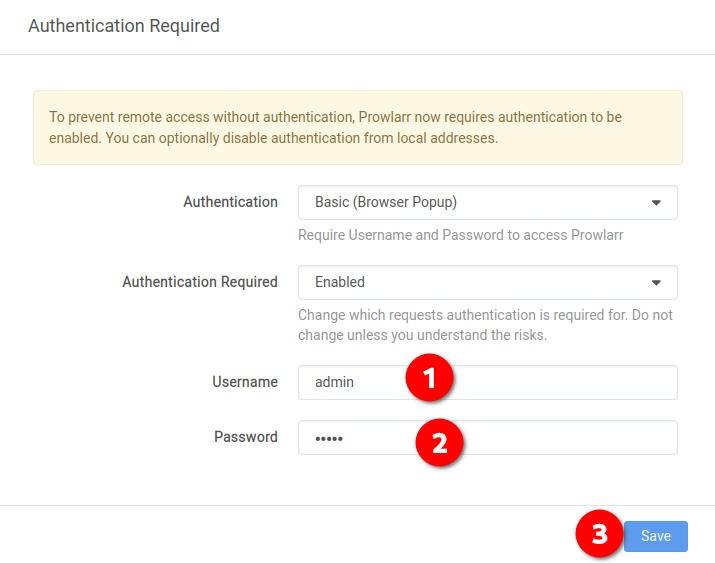
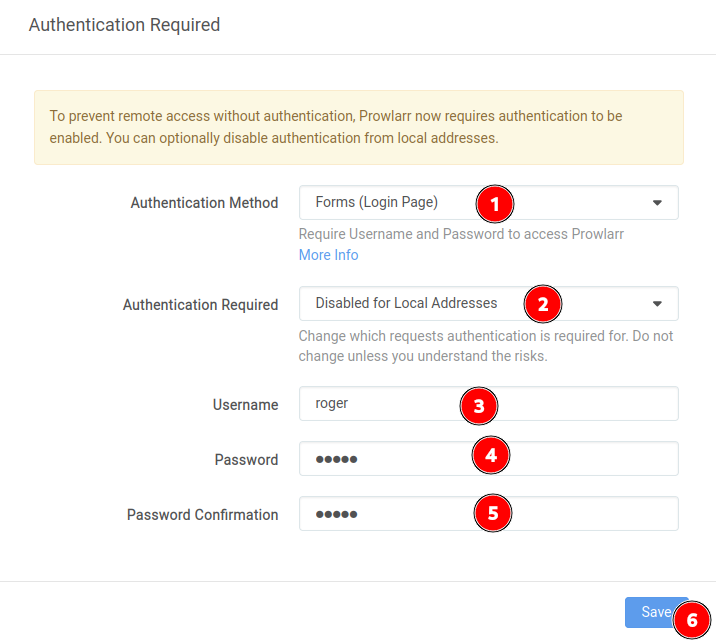
Upgraded Prowlarr setup guide

diff --git a/content/config/prowlarr.md b/content/config/prowlarr.md
@@ -12,126 +12,140 @@ From their [Github repo](https://github.com/Prowlarr/Prowlarr/):
 
 > Prowlarr is an indexer manager/proxy built on the popular *arr .net/reactjs base stack to integrate with your various PVR apps. Prowlarr supports management of both Torrent Trackers and Usenet Indexers. It integrates seamlessly with Lidarr, Mylar3, Radarr, Readarr, and Sonarr offering complete management of your indexers with no per app Indexer setup required (we do it all).
 
-So basically, we are going to use Prowlarr to **search for torrents**, so we can add them to [qBittorrent](/config/qbittorrent) later on.
+So basically, we're going to use Prowlarr to **search for torrents**, and then it will pass those on to [qBittorrent](/config/qbittorrent) to download. Think of it as your personal search engine! 🔍
 
 ## Initial configuration
 
-In your browser, go to [http://{your-ip-address}:9696/]() and you'll see the "Authentication required" screen. For now, set it to "Basic" and enter a username and password for Prowlarr
+In your browser, go to [http://{your-ip-address}:9696/]() and you'll see the "Authentication required" screen. Let's set up some basic security:
+- Select "Forms (Login Page)" as the "Authentication Method"
+- In "Authentication Required" select "Disabled for Local Addresses" (so you can browse freely on your home network)
 
 [![prowlarr-1](/pics/prowlarr-1.png)](/pics/prowlarr-1.png)
 
-### Indexers
+### Understanding Indexers
 
-On the homepage, click on "Add Nex Indexer"
+Before we dive in, let's talk about the two types of indexers you can use with Prowlarr:
+
+#### Usenet Indexers 📰
+Most good Usenet indexers are paid services, but they're usually pretty affordable and worth checking out! A couple of popular ones are:
+- [DrunkenSlug](https://drunkenslug.com) (invite only!)
+- [NZBGeek](https://nzbgeek.info)
+
+Remember, if you want to use Usenet indexers, you'll also need a Usenet provider configured in [SABnzbd](/config/sabnzbd)!
+
+#### Torrent Indexers 🧲
+For this tutorial, we'll focus on free torrent indexers since they're easier to get started with. Just remember to always use a VPN when torrenting!
+
+### Adding Indexers
+
+On the homepage, click on "Add Next Indexer" - time to teach Prowlarr where to look for content!
 
 [![prowlarr-2](/pics/prowlarr-2.png)](/pics/prowlarr-2.png)
 
-Now, select your indexers. For the purposes of this tutorial I'll add 2: YTS (for movies) and eztv (for tv shows).
+For this tutorial, I'll add two popular indexers: YTS (great for movies) and eztv (perfect for TV shows). But you can add whatever indexers you like! 
 
-Look for your indexer and click on it
+Find your indexer and click on it:
 
 [![prowlarr-3](/pics/prowlarr-3.png)](/pics/prowlarr-3.png)
 
-You'll get a new modal now, called "Add Indexer - Cardigann (your indexer)". On this screen, just choose a URL from the "Base Url" list.
+You'll see a new modal called "Add Indexer - Cardigann (your indexer)". All you need to do here is pick a URL from the "Base Url" list. Easy peasy! 
 
 [![prowlarr-4](/pics/prowlarr-4.png)](/pics/prowlarr-4.png)
 
-At the bottom, you can click on "Test" and if everything is OK you should see a ✅ 
+Hit that "Test" button at the bottom - if everything's working, you'll see a happy green checkmark! ✅ 
 [![sonarr-10](/pics/sonarr-10.png)](/pics/sonarr-10.png)
 [![sonarr-11](/pics/sonarr-11.png)](/pics/sonarr-11.png)
 
-If everything is fine, click on "Save", and you'll be back at the "Add Indexer" modal.
+Looking good? Click "Save" and you'll be back at the "Add Indexer" modal.
 
-You can now add more indexers. Add as many as you like!
+#### How many indexers should I add? 🤔
 
-#### How many indexers can I have?
-As many as you want! Just repeat the steps to add new indexers in Prowlarr. The more indexers you have, the better!
+As many as you want! Just repeat those steps for each new indexer in Prowlarr. The more indexers you have, the better chance of finding what you're looking for! It's like having more libraries to check for books. 📚
 
-When you finish, close the "Add Indexer" modal and you'll see all your indexers on the main page
+When you're done adding indexers, close the modal and you'll see all your indexers on the main page:
 
 [![prowlarr-5](/pics/prowlarr-5.png)](/pics/prowlarr-5.png)
 
 ### Connecting to Radarr and Sonarr
 
-Now comes the fun part: Connecting Prowlarr to Radarr and Sonarr!
+Now comes the fun part - connecting Prowlarr to Radarr and Sonarr! This is where everything starts working together. ✨
 
-#### Radarr 
+#### Radarr Connection
 
-First, you are going to need your Radarr API Key.
-
-You can get your Radarr API Key in Radarr. Go to [http://{your-ip-address}:7878/settings/general]() to open Radarr's settings, and you'll find the API Key under the "Security" section.
+First, we need your Radarr API Key. Head over to Radarr's settings at [http://{your-ip-address}:7878/settings/general]() and look for the API Key under "Security".
 
 [![bazarr-17](/pics/bazarr-17.png)](/pics/bazarr-17.png)
 
-For now, just copy it and keep it in a safe location.
+Copy that API key and keep it handy!
 
-In "Settings", go to "Apps" and click on the ➕ button.
+In Prowlarr, go to "Settings", click "Apps" and hit the ➕ button.
 
 [![prowlarr-6](/pics/prowlarr-6.png)](/pics/prowlarr-6.png)
 
-On the "Add Application" modal, click on "Radarr"
+Click on "Radarr":
 
 [![prowlarr-7](/pics/prowlarr-7.png)](/pics/prowlarr-7.png)
 
-- In "Prowlarr Server", add `http://prowlarr:9696`
-- In "Radarr Server", add `http://radarr:7878`
-- In "ApiKey", add your Radarr API key.
+Fill in these details:
+- Prowlarr Server: `http://prowlarr:9696`
+- Radarr Server: `http://radarr:7878`
+- API Key: paste your Radarr API key here
 
 [![prowlarr-8](/pics/prowlarr-8.png)](/pics/prowlarr-8.png)
 
-At the bottom, you can click on "Test" and if everything is OK you should see a ✅ 
+Test time! Click that "Test" button - hopefully you'll see a green checkmark! ✅ 
 [![sonarr-10](/pics/sonarr-10.png)](/pics/sonarr-10.png)
 [![sonarr-11](/pics/sonarr-11.png)](/pics/sonarr-11.png)
 
-To finish, click on "Save". You should see Radarr added to the "Apps" list!
+If the test passed, click "Save". You should see Radarr in your Apps list:
 
 [![prowlarr-9](/pics/prowlarr-9.png)](/pics/prowlarr-9.png)
 
-#### Sonarr 
+#### Sonarr Connection
 
-First, you are going to need your Sonarr API Key.
-
-You can get your Sonarr API Key in Sonarr. Go to [http://{your-ip-address}:8989/settings/general]() to open Sonarr's settings, and you'll find the API Key under the "Security" section.
+Time for Sonarr! First, grab your Sonarr API Key from [http://{your-ip-address}:8989/settings/general]() - it's under "Security" just like in Radarr.
 
 [![bazarr-14](/pics/bazarr-14.png)](/pics/bazarr-14.png)
 
-For now, just copy it and keep it in a safe location.
+Copy that API key for safekeeping!
 
-In "Settings", go to "Apps" and click on the ➕ button.
+Back in Prowlarr, go to "Settings", "Apps" and click that ➕ button again.
 
 [![prowlarr-10](/pics/prowlarr-10.png)](/pics/prowlarr-10.png)
 
-On the "Add Application" modal, click on "Sonarr"
+This time click on "Sonarr":
 
 [![prowlarr-11](/pics/prowlarr-11.png)](/pics/prowlarr-11.png)
 
-- In "Prowlarr Server", add `http://prowlarr:9696`
-- In "Sonarr Server", add `http://sonarr:8989`
-- In "ApiKey", add your Sonarr API key.
+Fill in these details:
+- Prowlarr Server: `http://prowlarr:9696`
+- Sonarr Server: `http://sonarr:8989`
+- API Key: paste your Sonarr API key here
 
 [![prowlarr-12](/pics/prowlarr-12.png)](/pics/prowlarr-12.png)
 
-At the bottom, you can click on "Test" and if everything is OK you should see a ✅ 
+One more test! Click "Test" - green checkmark time! ✅ 
 [![sonarr-10](/pics/sonarr-10.png)](/pics/sonarr-10.png)
 [![sonarr-11](/pics/sonarr-11.png)](/pics/sonarr-11.png)
 
-To finish, click on "Save". You should see Radarr added to the "Apps" list!
+All good? Hit "Save". You should now see both Radarr and Sonarr in your Apps list:
 
 [![prowlarr-13](/pics/prowlarr-13.png)](/pics/prowlarr-13.png)
 
-Finally, click on "Sync App Indexers"
+Finally, click on "Sync App Indexers" - this is where the magic happens! 🎩
 
 [![prowlarr-14](/pics/prowlarr-14.png)](/pics/prowlarr-14.png)
 
-Now, if you go back to Sonarr and Radarr, and check their "Indexer" settings, you'll see your indexers added magically!
+Want to see something cool? Go check Sonarr and Radarr's "Indexer" settings - your indexers have been automatically added! No copy-pasting needed! 
 
 [![prowlarr-15](/pics/prowlarr-15.png)](/pics/prowlarr-15.png)
+
 [![prowlarr-16](/pics/prowlarr-16.png)](/pics/prowlarr-16.png)
 
-## Move forward
+## Moving forward! 🚀
 
-Now you can move with the configuration. [Bazarr](/config/bazarr) is next!
+Now we can move on to [Bazarr](/config/bazarr) - it's going to handle all your subtitle needs! 
 
-## Do you want a more in depth configuration?
+## Want to become a Prowlarr pro?
 
-If you want a more in depth configuration, I recommend you check the [TRaSH Guide for Prowlarr](https://trash-guides.info/Prowlarr/).
+If you want to really dive into what Prowlarr can do, check out the [TRaSH Guide for Prowlarr](https://trash-guides.info/Prowlarr/). They've got some amazing tips for power users! 🔧
